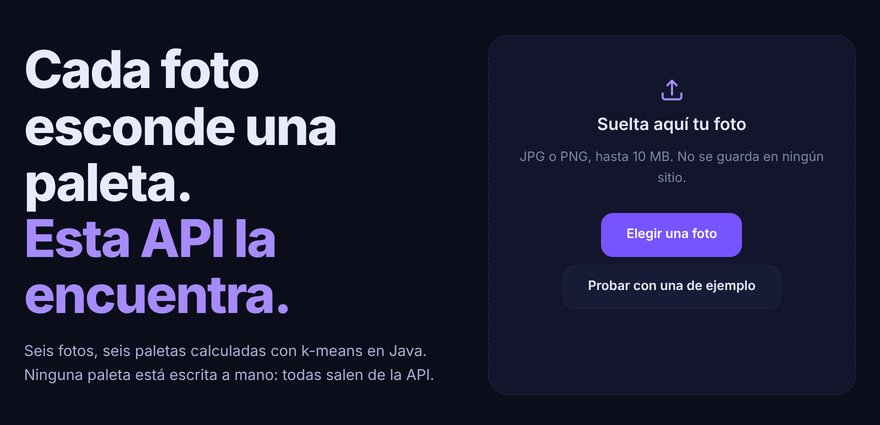
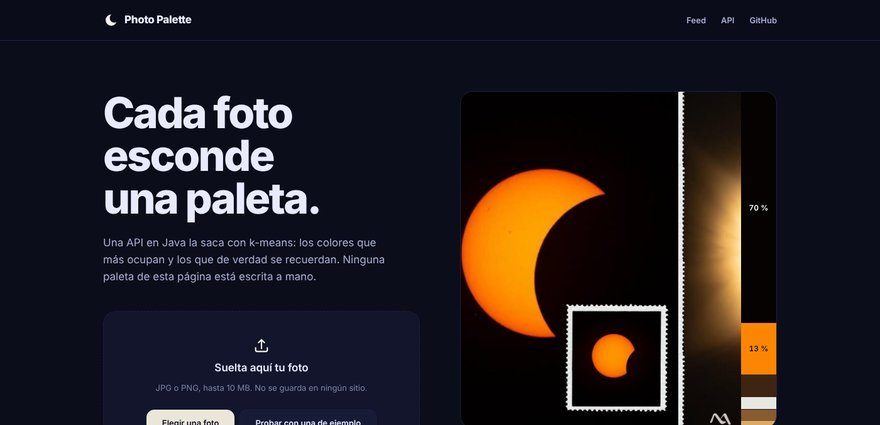
Captura nueva de Photo Palette
La portada ya no es la violeta: ahora enseña el eclipse con su regla de color. Cambio la imagen y su texto alternativo.

diff --git a/src/data/proyectos.js b/src/data/proyectos.js
@@ -109,8 +109,8 @@ export const proyectos = [
     },
     imagen: `${import.meta.env.BASE_URL}img/photo-palette.jpg`,
     imagenAlt: {
-      es: "Portada de Photo Palette: el titular a la izquierda y la caja para subir una foto a la derecha, sobre fondo azul noche.",
-      en: "Photo Palette home page: the headline on the left and the photo upload box on the right, on a dark blue background.",
+      es: "Portada de Photo Palette: el titular y la caja para subir una foto a la izquierda; a la derecha, un eclipse con una regla de color que mide lo que ocupa cada tono.",
+      en: "Photo Palette home page: the headline and the photo upload box on the left; on the right, an eclipse with a color ruler showing how much of the photo each shade takes up.",
     },
     enlaceTexto: { es: "Ver demo", en: "View demo" },
     // La API está en el plan gratis de Render y se duerme a los 15 minutos:
